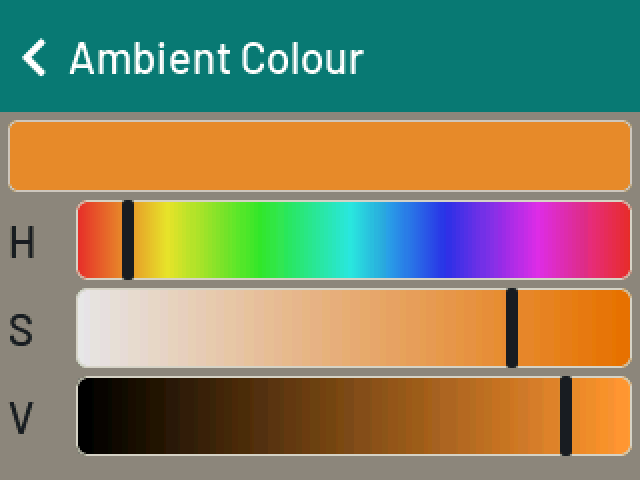
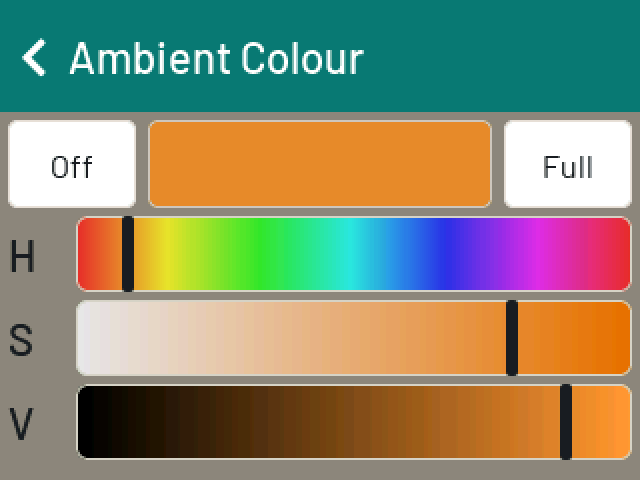
doc: players, rollershutters and mapped Switches, in the guide and the demo
The sitemap guide has a Players section on the Frame convention and why
it is not a child block, and says what the slider, setpoint,
rollershutter, colour and mapped-Switch screens do now. The demo's Media
page is a Blinds Frame and a Music Frame with OHEZ_DEMO_Title, _Artist
and _Volume; Presence and All Blinds move to the Secure page, where the
Alarm becomes a Switch with mappings. The five pictures that changed are
retaken against openHAB 5.2.1.

diff --git a/doc/openHAB/README.md b/doc/openHAB/README.md
@@ -148,30 +148,37 @@ once.
 The tile shows the value with the unit a size smaller. The unit comes from the
 state pattern, here `"Heating [%.1f °C]"` and `"Dimmer [%d %%]"`.
 
-## Media: blinds, player and groups of controls
+## Media: blinds and a player
 
 <img src="img/media.png" width="320">
 
 ```
 Text label="Media" icon="blinds"
 {
-    Default item=OHEZ_DEMO_Shutter_Living
-    Switch  item=OHEZ_DEMO_gShutters
-    Default item=OHEZ_DEMO_Player
-    Slider  item=OHEZ_DEMO_Volume
-    Switch  item=OHEZ_DEMO_Away mappings=[OFF="Home", ON="Away"]
+    Frame label="Blinds"
+    {
+        Default item=OHEZ_DEMO_Shutter_Living
+    }
+    Frame label="Music"
+    {
+        Default item=OHEZ_DEMO_Player
+        Text    item=OHEZ_DEMO_Title
+        Text    item=OHEZ_DEMO_Artist
+        Slider  item=OHEZ_DEMO_Volume
+    }
 }
 ```
 
 | Rollershutter | Player |
 | --- | --- |
 | <img src="img/rollershutter.png" width="320"> | <img src="img/player.png" width="320"> |
-| `Default` on a Rollershutter item is a Switch widget. The screen sends UP, STOP and DOWN. | `Default` on a Player item. Play/pause, previous and next. |
+| `Default` on a Rollershutter item is a Switch widget. The screen shows the position and sends one from the field, or UP, STOP and DOWN. | `Default` on a Player item. Play/pause, previous and next, and what is playing. |
 
-- **All Blinds** is a Switch over `Group:Rollershutter:AVG`. The tile shows the
-  average position, and the screen moves every member at once.
-- **Presence** is a Switch with `mappings`. The tile shows the mapping's label
-  ("Home") instead of the raw state (`OFF`).
+A Player item has no title. Bindings put it, the artist and the volume on items
+of their own, and the player's screen takes them from its own Frame: the first
+Text is the title, the next one goes on the line under it, and the Slider is
+the volume. Change `OHEZ_DEMO_Title` over REST while the screen is open and the
+new title shows at once. See [Players](../sitemap.md#players).
 
 ## Lights: a group
 
@@ -213,7 +220,7 @@ Frame label="House"
 A tile shows the label openHAB gives a state where there is one. The labels
 come from the first of these that has any:
 
-1. the widget's `mappings=[...]` (Scene, Presence)
+1. the widget's `mappings=[...]` (Scene, Alarm, Presence)
 2. the item's command options (Ventilation)
 3. the item's state options (Heating Mode)
 
@@ -319,6 +326,17 @@ Switch OHEZ_DEMO_Motion "Motion" <motion> { stateDescription=""[readOnly=true] }
 | <img src="img/secure.png" width="320"> | <img src="img/pin-pad.png" width="320"> |
 
 ```
+Text label="Secure" icon="lock"
+{
+    Switch item=OHEZ_DEMO_DoorOpener
+    Switch item=OHEZ_DEMO_Alarm mappings=["DISARMED"="Disarmed", "HOME"="Home", "AWAY"="Away"]
+    Text   item=OHEZ_DEMO_FrontDoor
+    Switch item=OHEZ_DEMO_Away mappings=[OFF="Home", ON="Away"]
+    Switch item=OHEZ_DEMO_gShutters
+}
+```
+
+```
 Switch OHEZ_DEMO_DoorOpener "Door Opener" <lock>   ["ohez-pin"]
 String OHEZ_DEMO_Alarm      "Alarm"       <shield> ["ohez-pin"]
 ```
@@ -327,6 +345,16 @@ Items with the tag `ohez-pin` ask for the Item PIN before their tile does
 anything, once an Item PIN is set under **Settings → System → Device → PINs**.
 **Front Door** on the same page has no tag and is a read-out, so it never asks.
 See [PINs](../configuration.md#pins).
+
+The other tiles on the page:
+
+- **Alarm** is a Switch with `mappings` over a String item. openHAB draws it
+  as a row of buttons, and the panel opens the Selection screen for it.
+- **Presence** is a Switch with `mappings` over a Switch item. It still
+  toggles on the tile, and the tile shows the mapping's label ("Home")
+  instead of the raw state (`OFF`).
+- **All Blinds** is a Switch over `Group:Rollershutter:AVG`. The tile shows the
+  average position, and the screen moves every member at once.
 
 ## Themes
 
@@ -347,7 +375,10 @@ The same home page in the four theme families, under **Settings → Theme**:
   without a message. `test/openhab/oheznav.sitemap` has pages that go past each
   limit.
 - **Widgets the panel cannot draw.** Chart, Image, Video, Webview, Mapview,
-  Input, and a Switch over a Dimmer or a Number, are left out and take no place.
+  Input, and a Switch without mappings over a Dimmer or a Number, are left out
+  and take no place.
+- **Cover art.** A binding's album art is an Image item, and the panel draws
+  no Image widgets.
 - **Older servers.** Live colours and visibility need openHAB's sitemap events.
   On a server without them the panel follows item states only. See
   [Live updates](../sitemap.md#live-updates).

diff --git a/doc/sitemap.md b/doc/sitemap.md
@@ -25,11 +25,27 @@ is the way back.
 A Colorpicker opens a screen with a swatch and three fields: hue, saturation
 and value. Each field shows the colours it reaches with the other two held
 where they are, and the fields recolour as you drag. The new colour is sent
-when the finger lifts.
+when the finger lifts. **Off** sends `OFF`, and **Full** sends the colour at
+full brightness.
+
+A Slider moves in its `step` and sends the value in the step's precision:
+`50` for a step of 1, `21.5` for a step of 0.5. A Setpoint does the same, and
+a value that something else set off the step goes back onto it with the next
+tap.
+
+A Rollershutter (or a group of them) opens a screen with its position, a
+field that sends a position from 0 (open) to 100 (closed) when the finger
+lifts, and UP, STOP and DOWN.
+
+A Switch with `mappings` over an item that is not a Switch (a scene, a mode, a
+fan level) opens the same screen as a Selection: one button per mapping. So
+does `Default` on a Number or String with up to four command options, which
+openHAB sends as a Switch.
 
 Widgets of other types (Chart, Image, Webview, Mapview, Input and so on) are
-left out. So is a Switch over an item that is neither a Switch, a
-Rollershutter, a Player nor a group of Switches or Rollershutters. A widget
+left out. So is a Switch without mappings over an item that is neither a
+Switch, a Rollershutter, a Player nor a group of Switches or Rollershutters,
+for example a Switch over a Dimmer. A widget
 that a `visibility=[...]` rule hides is left out too, and so is everything in
 a hidden Frame. None of them takes one of the six places. When a rule shows or
 hides a widget, the panel loads the page again.
@@ -37,6 +53,35 @@ hides a widget, the panel loads the page again.
 An item whose state description is read-only, for example
 `{ stateDescription=""[readOnly=true] }`, gets a tile that only shows its
 state. A tap on it does nothing, even inside a Switch or a Slider.
+
+## Players
+
+openHAB's Player item carries only the transport: PLAY, PAUSE, NEXT,
+PREVIOUS. A binding puts what is playing and the volume on items of their own,
+for example Sonos `currenttitle`, `currentartist` and `volume`, or Spotify
+`trackName` and `artistName`. Put them in one Frame with the player:
+
+```
+Frame label="Music"
+{
+    Default item=Sonos_Control
+    Text    item=Sonos_Title
+    Text    item=Sonos_Artist
+    Slider  item=Sonos_Volume
+}
+```
+
+The player's screen then shows the first Text item of its Frame as the title,
+up to two more on the line under it, and the first Slider as a volume field
+under the transport keys. They follow the server while the screen is open. A
+player outside a Frame, or alone in one, gets the transport keys only. The
+Frame's items are tiles of the page as well, so they count against the six.
+
+A child block on the player itself (`Default item=... { ... }`) would be the
+obvious way to say this, but openHAB's sitemap syntax allows one only on
+Text, Group, Image, Frame and Buttongrid.
+
+The player's tile reads "Playing" or "Paused".
 
 ## Value labels
 

diff --git a/doc/architecture.md b/doc/architecture.md
@@ -404,7 +404,13 @@ cannot reach it. A live theme change tears the old family's chrome down
 
 **A screen per item type.** `main/ui/items/` has one file per openHAB item
 type, found through a registry. Each carries a `refresh` hook, so an open
-control follows the server. The colour screen's H, S and V fields draw the
+control follows the server. The player's screen also shows other tiles of its
+page: the title, artist and volume in its Frame, which `Item::getFrame()`
+remembers after the parse flattens the Frames. Its descriptor sets
+`follows_page`, so a change to any tile refreshes it, and it reads the tiles
+through `item_screen_page_item()`. There is no fetch of its own and no second
+subscription: the tiles are on the page, so the event stream already follows
+them. The colour screen's H, S and V fields draw the
 range each one sweeps as a horizontal gradient, and moving one recolours the
 other two. That takes two `lv_conf.h` settings: `LV_GRADIENT_MAX_STOPS` at 7
 for the hue wheel, and `LV_DRAW_SW_SUPPORT_RGB888` on. LVGL blends a
